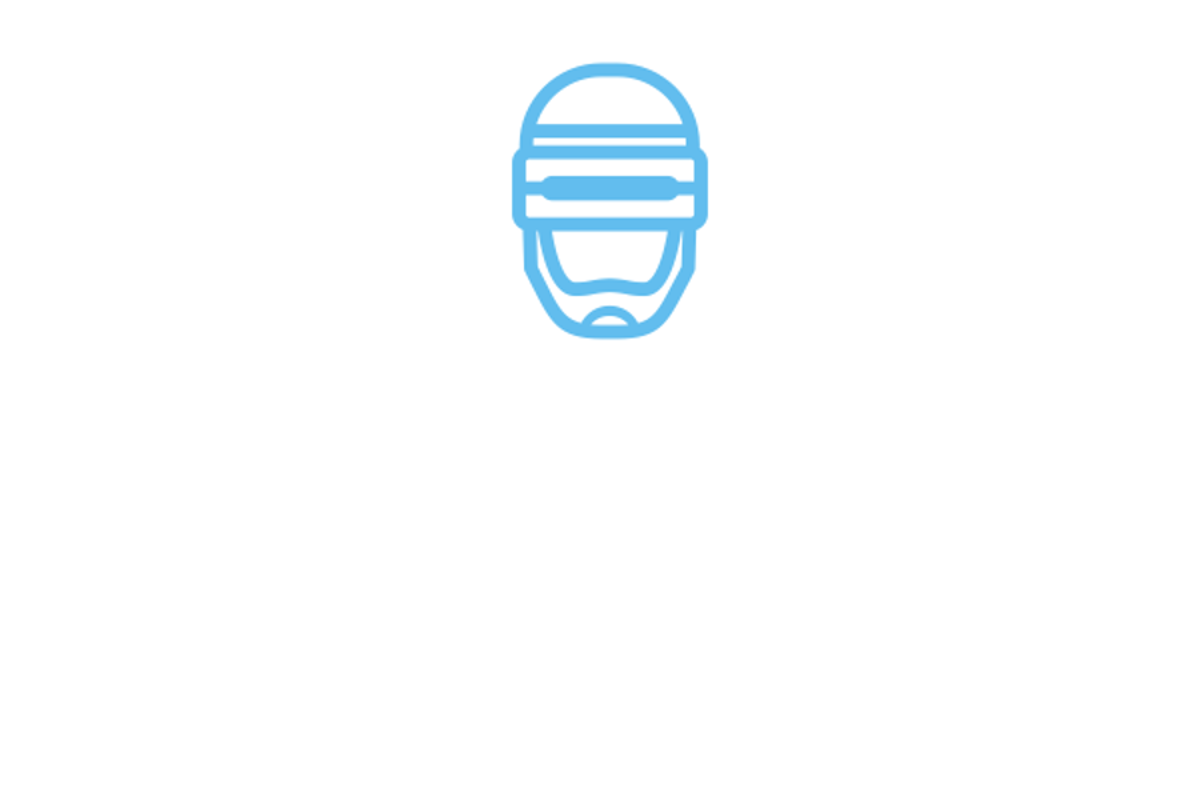
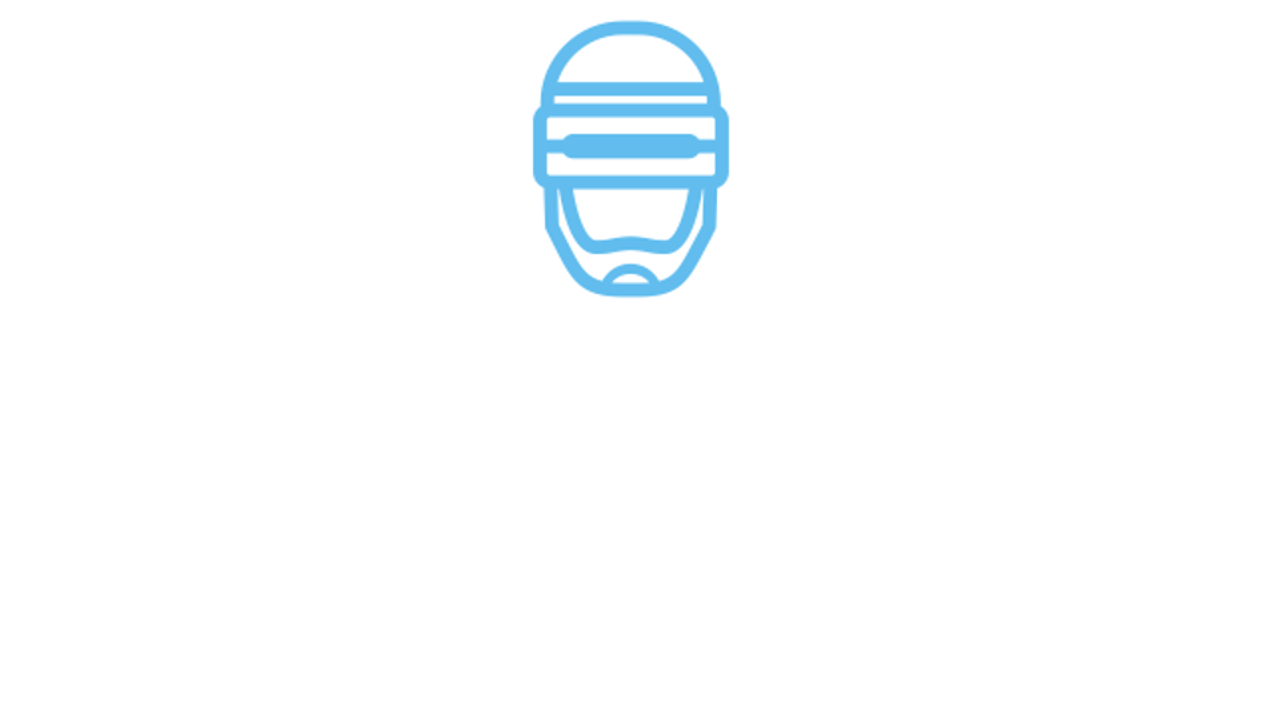
Layout changes
in app logo eingefuegt
controller bzgl background gearbeitet
layout size angepasst
images aktualisiert

Changed region(s): [[0.4008, 0.0306, 0.6167, 0.4278]]

diff --git a/src/main/java/com/lte/App.java b/src/main/java/com/lte/App.java
@@ -1,5 +1,6 @@
 package com.lte;
 
+import java.io.File;
 import java.io.IOException;
 
 import com.lte.controller.Agent;
@@ -9,6 +10,7 @@ import com.lte.gui.Controller0;
 import javafx.application.Application;
 import javafx.fxml.FXMLLoader;
 import javafx.scene.Scene;
+import javafx.scene.image.Image;
 import javafx.scene.layout.AnchorPane;
 import javafx.stage.Stage;
 
@@ -42,6 +44,10 @@ public class App extends Application {
 			FXMLLoader loader = new FXMLLoader(getClass().getResource("./gui/views/layout0.fxml"));
 			// Neues Layout in eine neue Scene laden und auf die Stage setzen
 			stage.setScene(new Scene((AnchorPane) loader.load()));
+			// set Icon
+			File file = new File("files/images/icon.png");
+			Image image = new Image(file.toURI().toString());
+			stage.getIcons().add(image);
 			// erstellter Controller1 wird geladen und anschlie�end der Agent
 			// �bergeben
 			Controller0 controller0 = loader.<Controller0>getController();

diff --git a/src/main/java/com/lte/gui/Controller1.java b/src/main/java/com/lte/gui/Controller1.java
@@ -208,7 +208,7 @@ public class Controller1 {
 		fileChooser.setTitle("Kontaktpfad w�hlen");
 
 		// Background Image
-		File file = new File("files/images/kuenstliche-intellegenz.jpg");
+		File file = new File("files/images/gameplay.png");
 		Image image = new Image(file.toURI().toString());
 		imageView.setImage(image);
 	}
